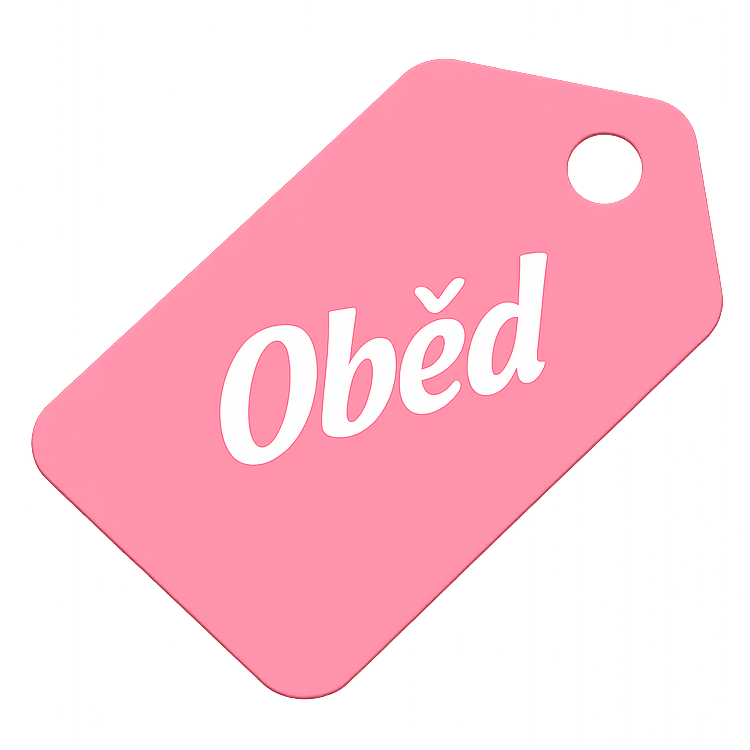
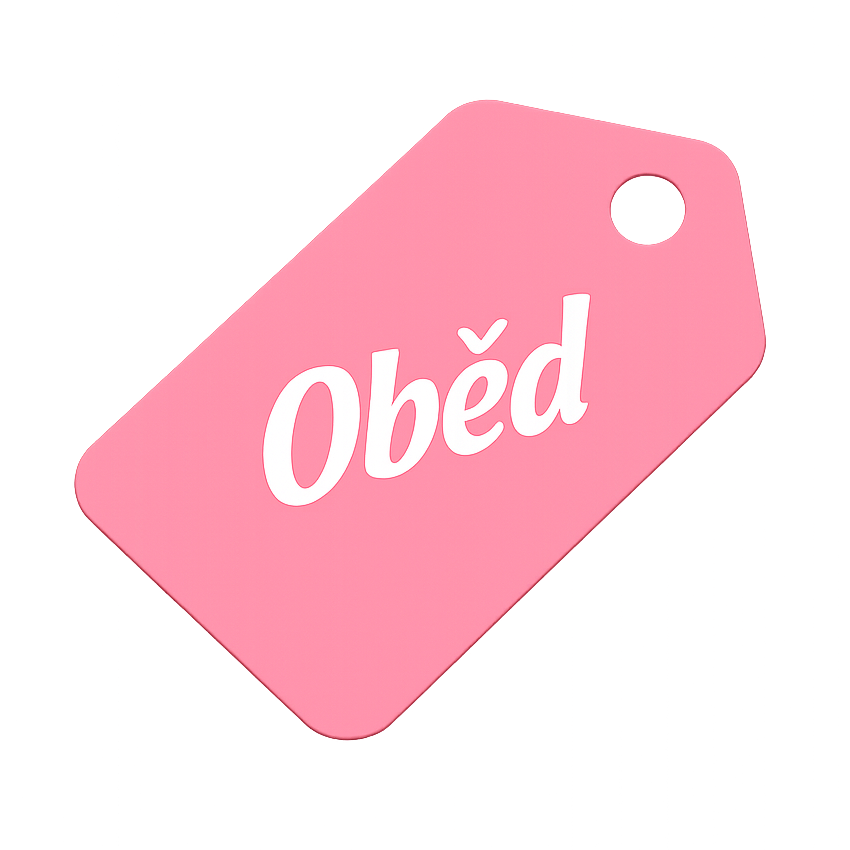
The meal database has been improved. Tables and small boxes have been removed. They have been replaced by cards.

Changed region(s): [[0.0307, 0.0613, 0.9813, 0.9507], [0.276, 0.3373, 0.736, 0.644]]

diff --git a/src/pages/Database/components/DatabaseMealCard.tsx b/src/pages/Database/components/DatabaseMealCard.tsx
@@ -1,0 +1,126 @@
+import {
+  Box,
+  Card,
+  CardActionArea,
+  CardContent,
+  CardHeader,
+  Chip,
+  Typography,
+} from '@mui/material';
+import { IconLabel } from '../../../components/IconLabel/IconLabel';
+import type { FoodType } from '../../../foodData';
+import { generatePath, Link } from 'react-router-dom';
+import { ROUTES } from '../../../constants/routes';
+
+interface MealProps {
+  id: number;
+  name: string;
+  type: FoodType;
+  calories: number;
+  protein: number;
+  carbs: number;
+  fat: number;
+}
+
+interface DatabaseMealCardProps {
+  data: MealProps;
+}
+
+export const DatabaseMealCard = ({ data }: DatabaseMealCardProps) => {
+  const { id, name, type, calories, protein, carbs, fat } = data;
+  return (
+    <Card
+      variant="outlined"
+      sx={{
+        width: '100%',
+        height: '100%',
+        maxWidth: '270px',
+        alignSelf: 'center',
+        '@media (min-width: 600px)': {
+          maxWidth: 'none',
+        },
+      }}
+    >
+      <CardActionArea
+        component={Link}
+        to={generatePath(ROUTES.databaseDetail, {
+          databaseId: id.toString(),
+        })}
+        sx={{
+          display: 'flex',
+          flexDirection: 'column',
+          justifyContent: 'space-between',
+          height: '100%',
+        }}
+      >
+        <CardHeader
+          sx={{ alignSelf: 'start', flex: 1, alignItems: 'flex-start' }}
+          title={
+            <Box>
+              <Typography
+                variant="body2"
+                color="primary"
+                width="80%"
+                gutterBottom
+              >
+                {name}
+              </Typography>
+              <Box sx={{ position: 'absolute', top: 20, right: 8 }}>
+                <IconLabel type={type} />
+              </Box>
+            </Box>
+          }
+          subheader={
+            <Typography
+              variant="caption"
+              color="grey.400"
+            >{`${calories} kJ / ${Math.round(calories / 4.184)} KCal`}</Typography>
+          }
+        />
+        <CardContent sx={{ mt: -2, width: '100%' }}>
+          <Box
+            sx={{
+              display: 'flex',
+              flexWrap: 'wrap',
+              gap: '0.5rem',
+            }}
+          >
+            <Chip
+              label={
+                <Typography variant="caption">{`Bílkoviny: ${protein}g`}</Typography>
+              }
+              size="small"
+              sx={{
+                backgroundColor: '#F5E8EC',
+                color: '#6B5E62',
+                fontWeight: 500,
+              }}
+            />
+            <Chip
+              label={
+                <Typography variant="caption">{`Sacharidy: ${carbs}g`}</Typography>
+              }
+              size="small"
+              sx={{
+                backgroundColor: '#FFF8E8',
+                color: '#6E6A5D',
+                fontWeight: 500,
+              }}
+            />
+            <Chip
+              label={
+                <Typography variant="caption">{`Tuky: ${fat}g`}</Typography>
+              }
+              size="small"
+              sx={{
+                backgroundColor: '#E8F2F5',
+                color: '#5D676B',
+                fontWeight: 500,
+              }}
+            />
+          </Box>
+        </CardContent>
+      </CardActionArea>
+    </Card>
+  );
+};

diff --git a/src/pages/Database/Database.tsx b/src/pages/Database/Database.tsx
@@ -1,13 +1,18 @@
 import FilterListAltIcon from '@mui/icons-material/FilterListAlt';
-import { Box, Button } from '@mui/material';
+import { Button } from '@mui/material';
 import { SectionTitle } from '../../components/SectionTitle/SectionTitle';
-import { DatabaseTable } from './components/DatabaseTable';
-import { DatabaseBoxSmall } from './components/DatabaseBoxSmall';
-import { DatabaseHeaderStylled, DatabaseStyled } from './styles/DatabaseStyles';
+// import { DatabaseTable } from './components/DatabaseTable';
+// import { DatabaseBoxSmall } from './components/DatabaseBoxSmall';
+import {
+  DatabaseContentStyled,
+  DatabaseHeaderStylled,
+  DatabaseStyled,
+} from './styles/DatabaseStyles';
 import { getAllMeals } from '../../services/mealsService';
+import { DatabaseMealCard } from './components/DatabaseMealCard';
 
 export const Database = () => {
-  const tableData = getAllMeals();
+  const mealsData = getAllMeals();
 
   return (
     <DatabaseStyled>
@@ -17,12 +22,11 @@ export const Database = () => {
           <FilterListAltIcon fontSize="large" />
         </Button>
       </DatabaseHeaderStylled>
-      <Box sx={{ display: { sm: 'flex', md: 'none' }, width: '100%' }}>
-        <DatabaseBoxSmall data={tableData} />
-      </Box>
-      <Box sx={{ display: { sm: 'none', md: 'block' }, width: '100%' }}>
-        <DatabaseTable data={tableData} />
-      </Box>
+      <DatabaseContentStyled>
+        {mealsData.map((meal) => (
+          <DatabaseMealCard key={meal.id} data={meal} />
+        ))}
+      </DatabaseContentStyled>
     </DatabaseStyled>
   );
 };

diff --git a/src/pages/Database/styles/DatabaseStyles.ts b/src/pages/Database/styles/DatabaseStyles.ts
@@ -17,12 +17,15 @@ export const DatabaseHeaderStylled = styled(Box)({
   justifyContent: 'space-between',
 });
 
-export const DatabaseBoxSmallStyled = styled(Box)(({ theme }) => ({
-  display: 'flex',
-  flexDirection: 'column',
-  alignItems: 'center',
+export const DatabaseContentStyled = styled(Box)(({ theme }) => ({
+  display: 'grid',
+  gridTemplateColumns: 'repeat(auto-fill, minmax(270px, 1fr))',
+  gridAutoRows: '1fr',
   width: '100%',
-  [theme.breakpoints.up('md')]: {
-    display: 'none',
+  gap: theme.spacing(2),
+  [theme.breakpoints.down('sm')]: {
+    display: 'flex',
+    flexDirection: 'column',
+    alignItems: 'center',
   },
 }));

diff --git a/src/pages/Database/meals.ts b/src/pages/Database/meals.ts
@@ -1,5 +1,5 @@
 import { foodData } from '../../foodData';
-import type { foodTypes } from './models/row';
+import type { foodTypes } from './models/meal';
 
 function createData(
   id: number,
@@ -13,7 +13,7 @@ function createData(
   return { id, name, type, calories, fat, carbs, protein };
 }
 
-export const rows = foodData.map((food) =>
+export const meals = foodData.map((food) =>
   createData(
     food.id,
     food.title,

diff --git a/src/pages/Database/models/meal.ts b/src/pages/Database/models/meal.ts
@@ -1,6 +1,6 @@
 export type foodTypes = 'breakfast' | 'snack1' | 'lunch' | 'snack2' | 'dinner';
 
-export type Row = {
+export type Meal = {
   id: number;
   name: string;
   type: foodTypes;

diff --git a/src/services/mealsService.ts b/src/services/mealsService.ts
@@ -1,5 +1,5 @@
-import { rows } from '../pages/Database/rows';
+import { meals } from '../pages/Database/meals';
 
 export const getAllMeals = () => {
-  return rows;
+  return meals;
 };
